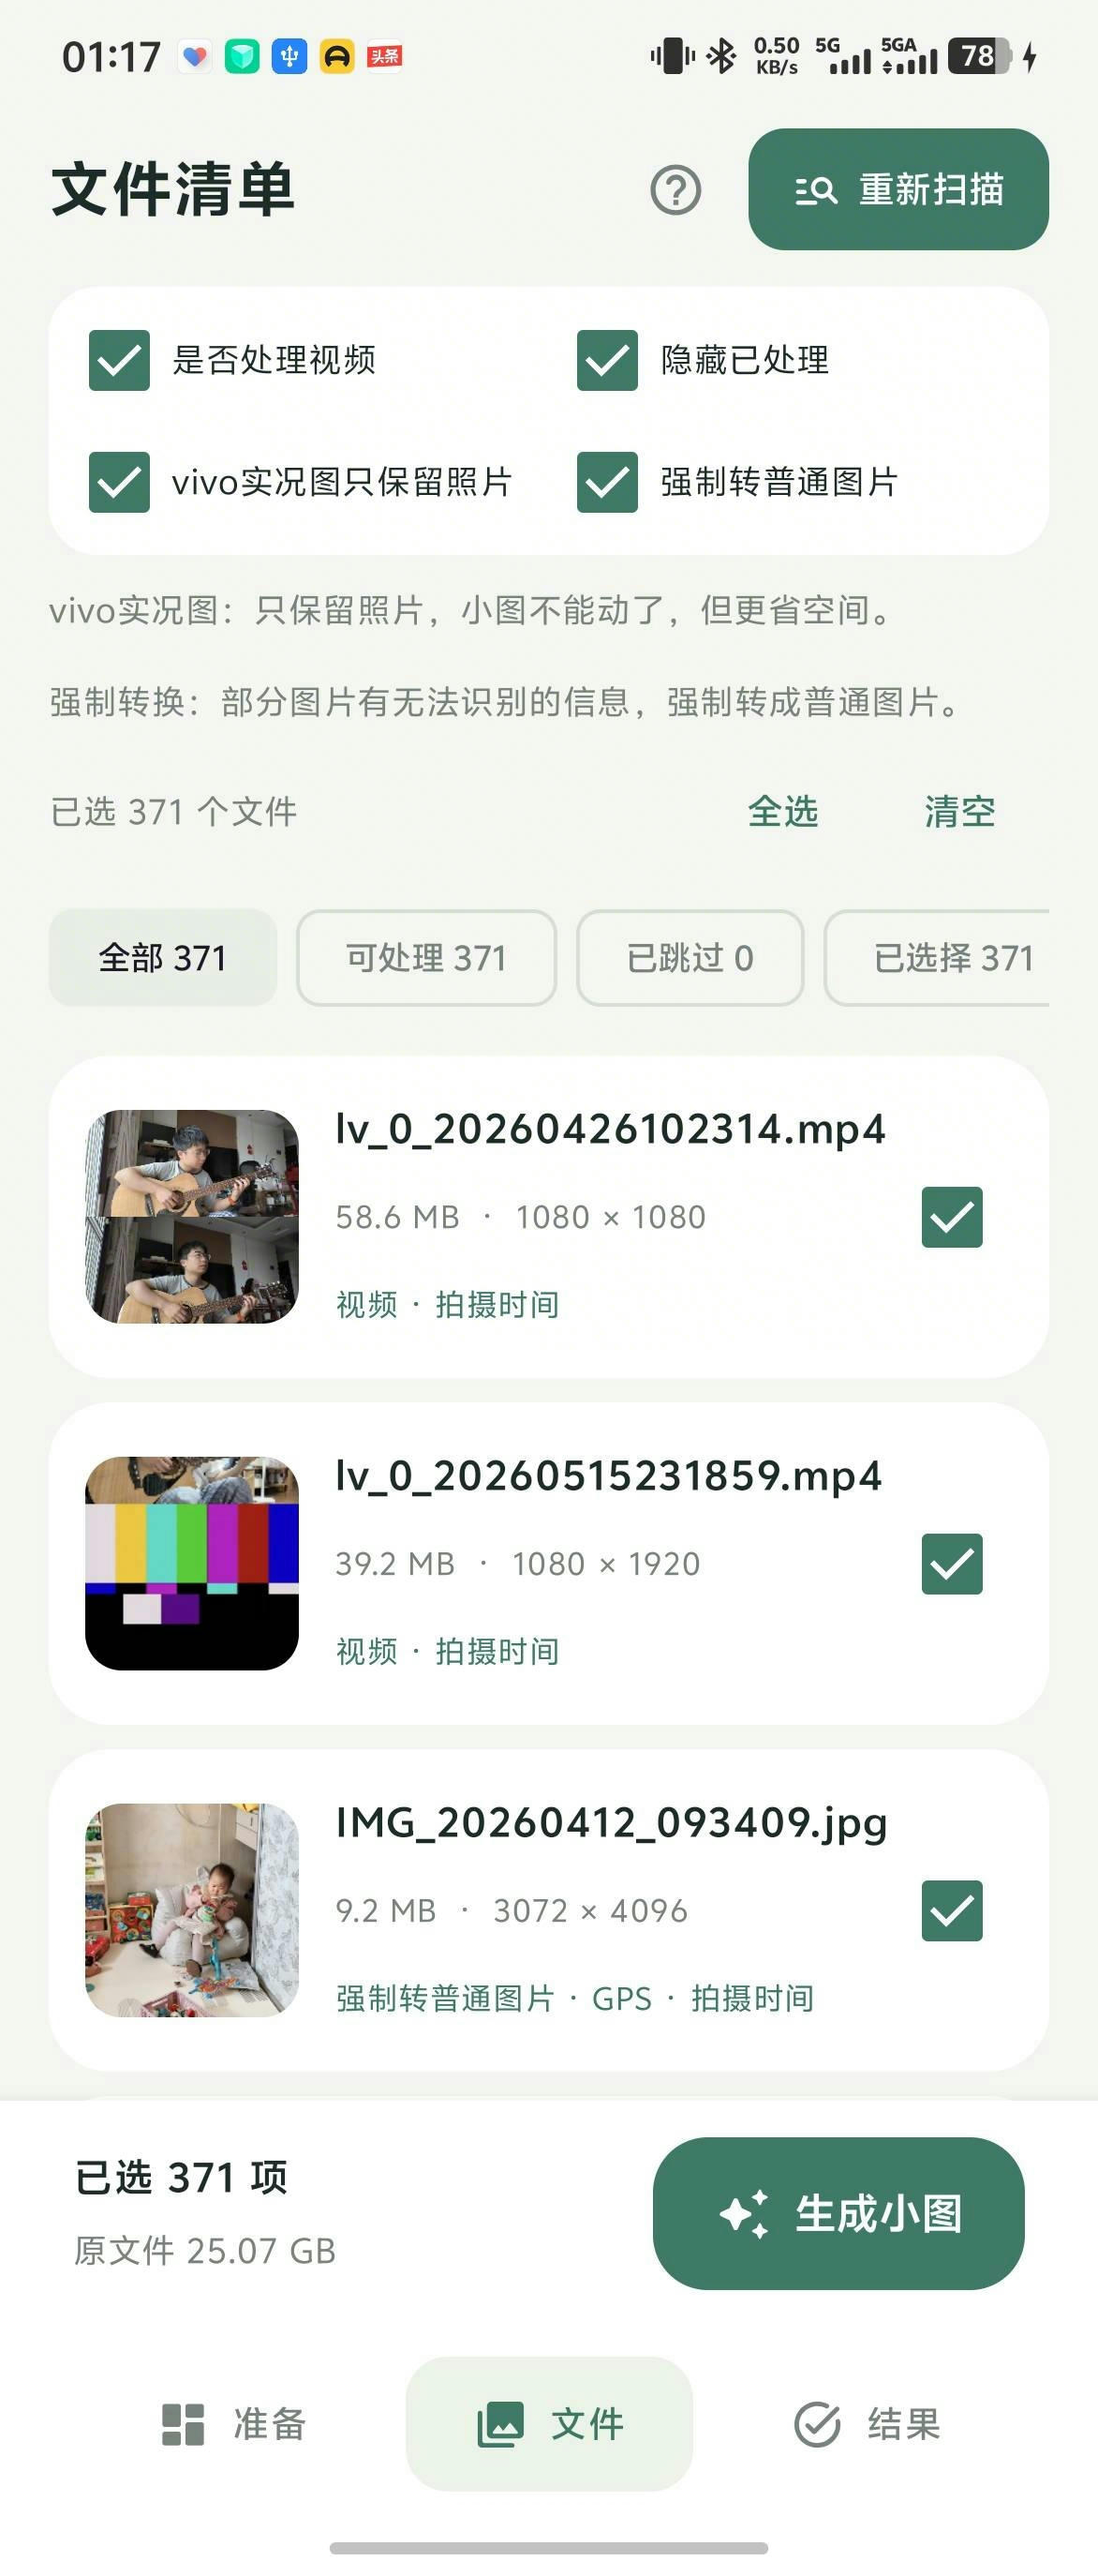
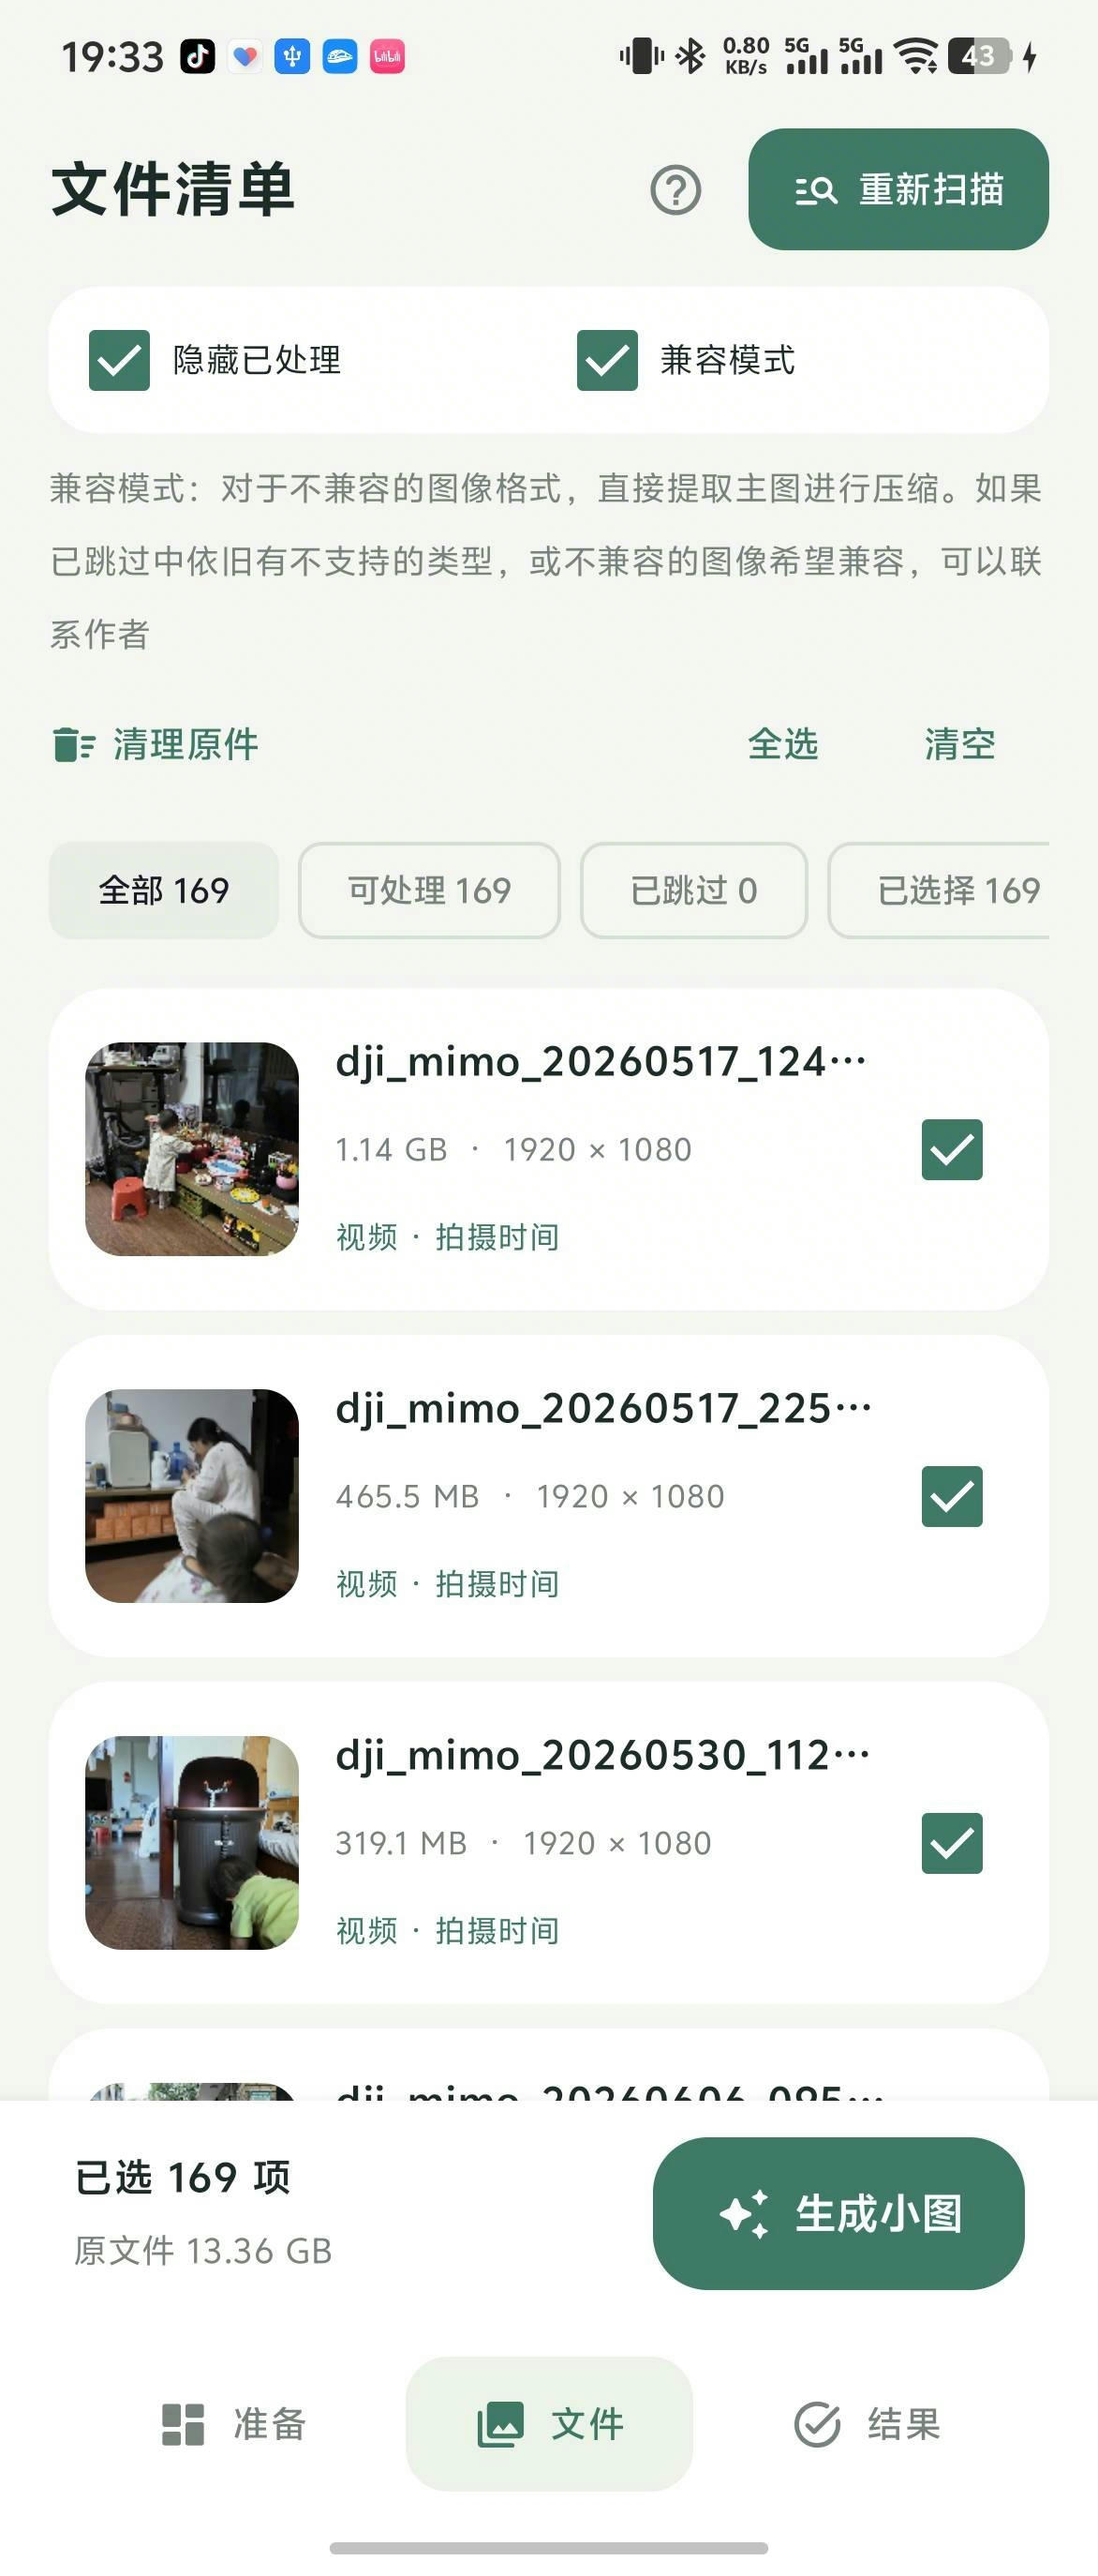
chore: 默认关闭兼容模式并更新文档截图

diff --git a/app/src/main/java/com/xk/photoopt/PhotoViewModel.kt b/app/src/main/java/com/xk/photoopt/PhotoViewModel.kt
@@ -29,7 +29,7 @@ class PhotoViewModel(application: Application) : AndroidViewModel(application) {
     var hideProcessed by mutableStateOf(true); private set
     fun updateHideProcessed(value: Boolean) { hideProcessed = value }
     val visibleEntries get() = if (hideProcessed) entries.filterNot { it.outputExists } else entries
-    var forceStatic by mutableStateOf(true); private set
+    var forceStatic by mutableStateOf(false); private set
     private var scannedEntries: List<MediaEntry> = emptyList()
     var entries by mutableStateOf<List<MediaEntry>>(emptyList()); private set
     var selected by mutableStateOf<Set<String>>(emptySet()); private set

diff --git a/README.md b/README.md
@@ -10,7 +10,7 @@
 
 ## 界面预览
 
-点击缩略图查看原图。截图展示主要使用流程，个别控件以当前版本为准。
+点击缩略图查看原图。文件页截图展示兼容模式开启的状态；当前版本默认关闭。
 
 | 准备：来源与目录 | 文件：扫描与选择 | 结果：任务记录 |
 | :---: | :---: | :---: |
@@ -53,8 +53,8 @@ Pictures/备份-旅行/IMG_001.jpg
 
 ## 使用前留意
 
-- **文件页两个选项**：「隐藏已处理」和「兼容模式」默认开启，均可取消。隐藏已处理不会影响“清理原件”的检查范围。
-- **已支持实况保留动态**：不再提供实况仅照片选项；「兼容模式」仍只针对不支持的结构提取静态主图，可按需取消。
+- **文件页两个选项**：「隐藏已处理」默认开启，「兼容模式」默认关闭，可按需切换。隐藏已处理不会影响“清理原件”的检查范围。
+- **已支持实况保留动态**：不再提供实况仅照片选项；遇到部分不支持的图片时，可手动开启「兼容模式」提取静态主图；生成的小图不会保留这类文件的动态和附加信息，原件不变。
 - **默认移除 HDR 增益图**：已支持的静态、实况照片输出均移除增益图，不设开关；保留实况动态时仍保留视频和配对信息。已有同名小图不会自动更新。
 - **生成小图不会立即释放空间**：原件和小图会同时存在；「累计压缩减少」是任务体积差，并非实际已释放空间。
 - **并非所有文件都能处理**：普通 JPEG、静态 PNG/WebP 和符合条件的 SDR 视频可处理；Apple Live Photo、HEIC/RAW、HDR 视频等暂不支持，厂商实况兼容性因机型而异。请检查失败和跳过项。
@@ -72,16 +72,6 @@ Pictures/备份-旅行/IMG_001.jpg
 准备页右上角点击扳手图标，可选择目录递归检查，或指定图片、视频，查看文件内是否有 PhotoOpt 处理标记。支持查看标记原文及压缩、复制、主图提取等处理方式，不修改文件。
 
 工具区分“有标记”“未发现标记”“读取失败”和“暂不支持”。它不依赖任务记录；未发现标记也不代表文件从未处理过，其他软件可能移除了元数据。
-
-## 本地构建
-
-使用 **JDK 17、Android SDK Platform 35**，在 Android Studio 中打开项目并配置 SDK 路径，然后执行：
-
-```sh
-./gradlew :app:assembleDebug :app:lintDebug
-```
-
-Windows 使用 `gradlew.bat`。APK 位于 `app/build/outputs/apk/debug/app-debug.apk`；正式发布需自行配置签名。
 
 ## 反馈与支持
 
